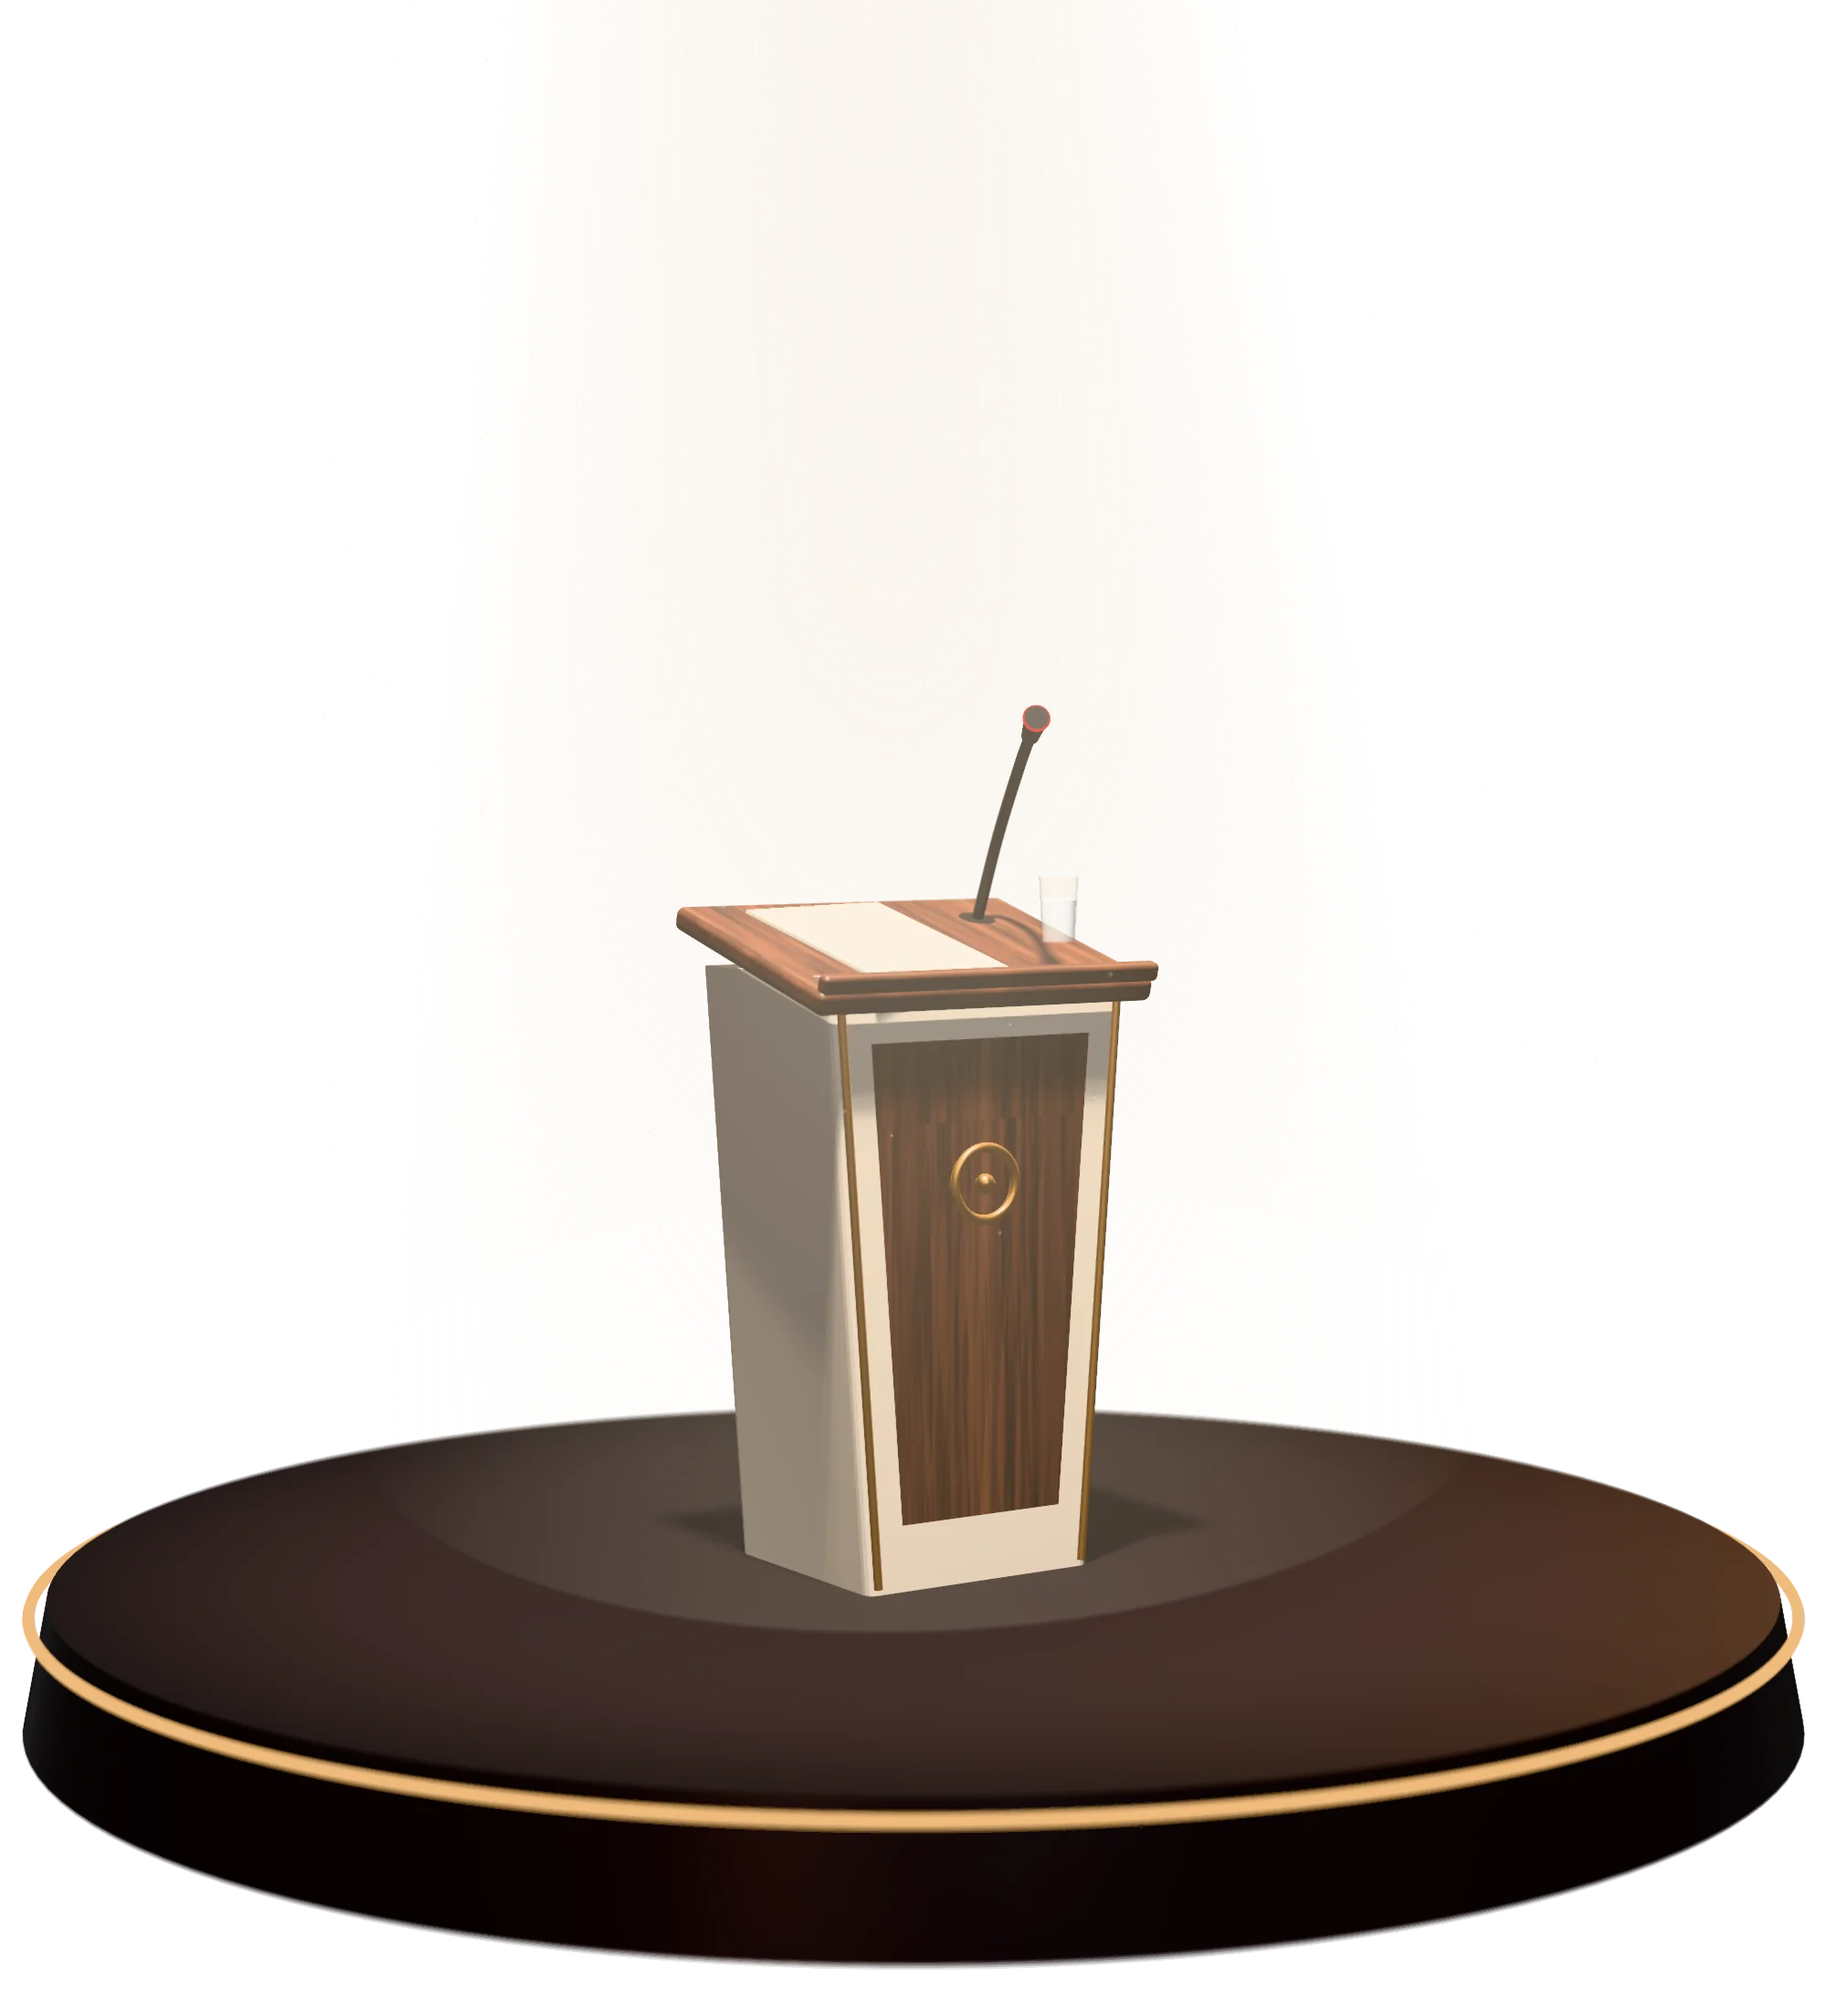
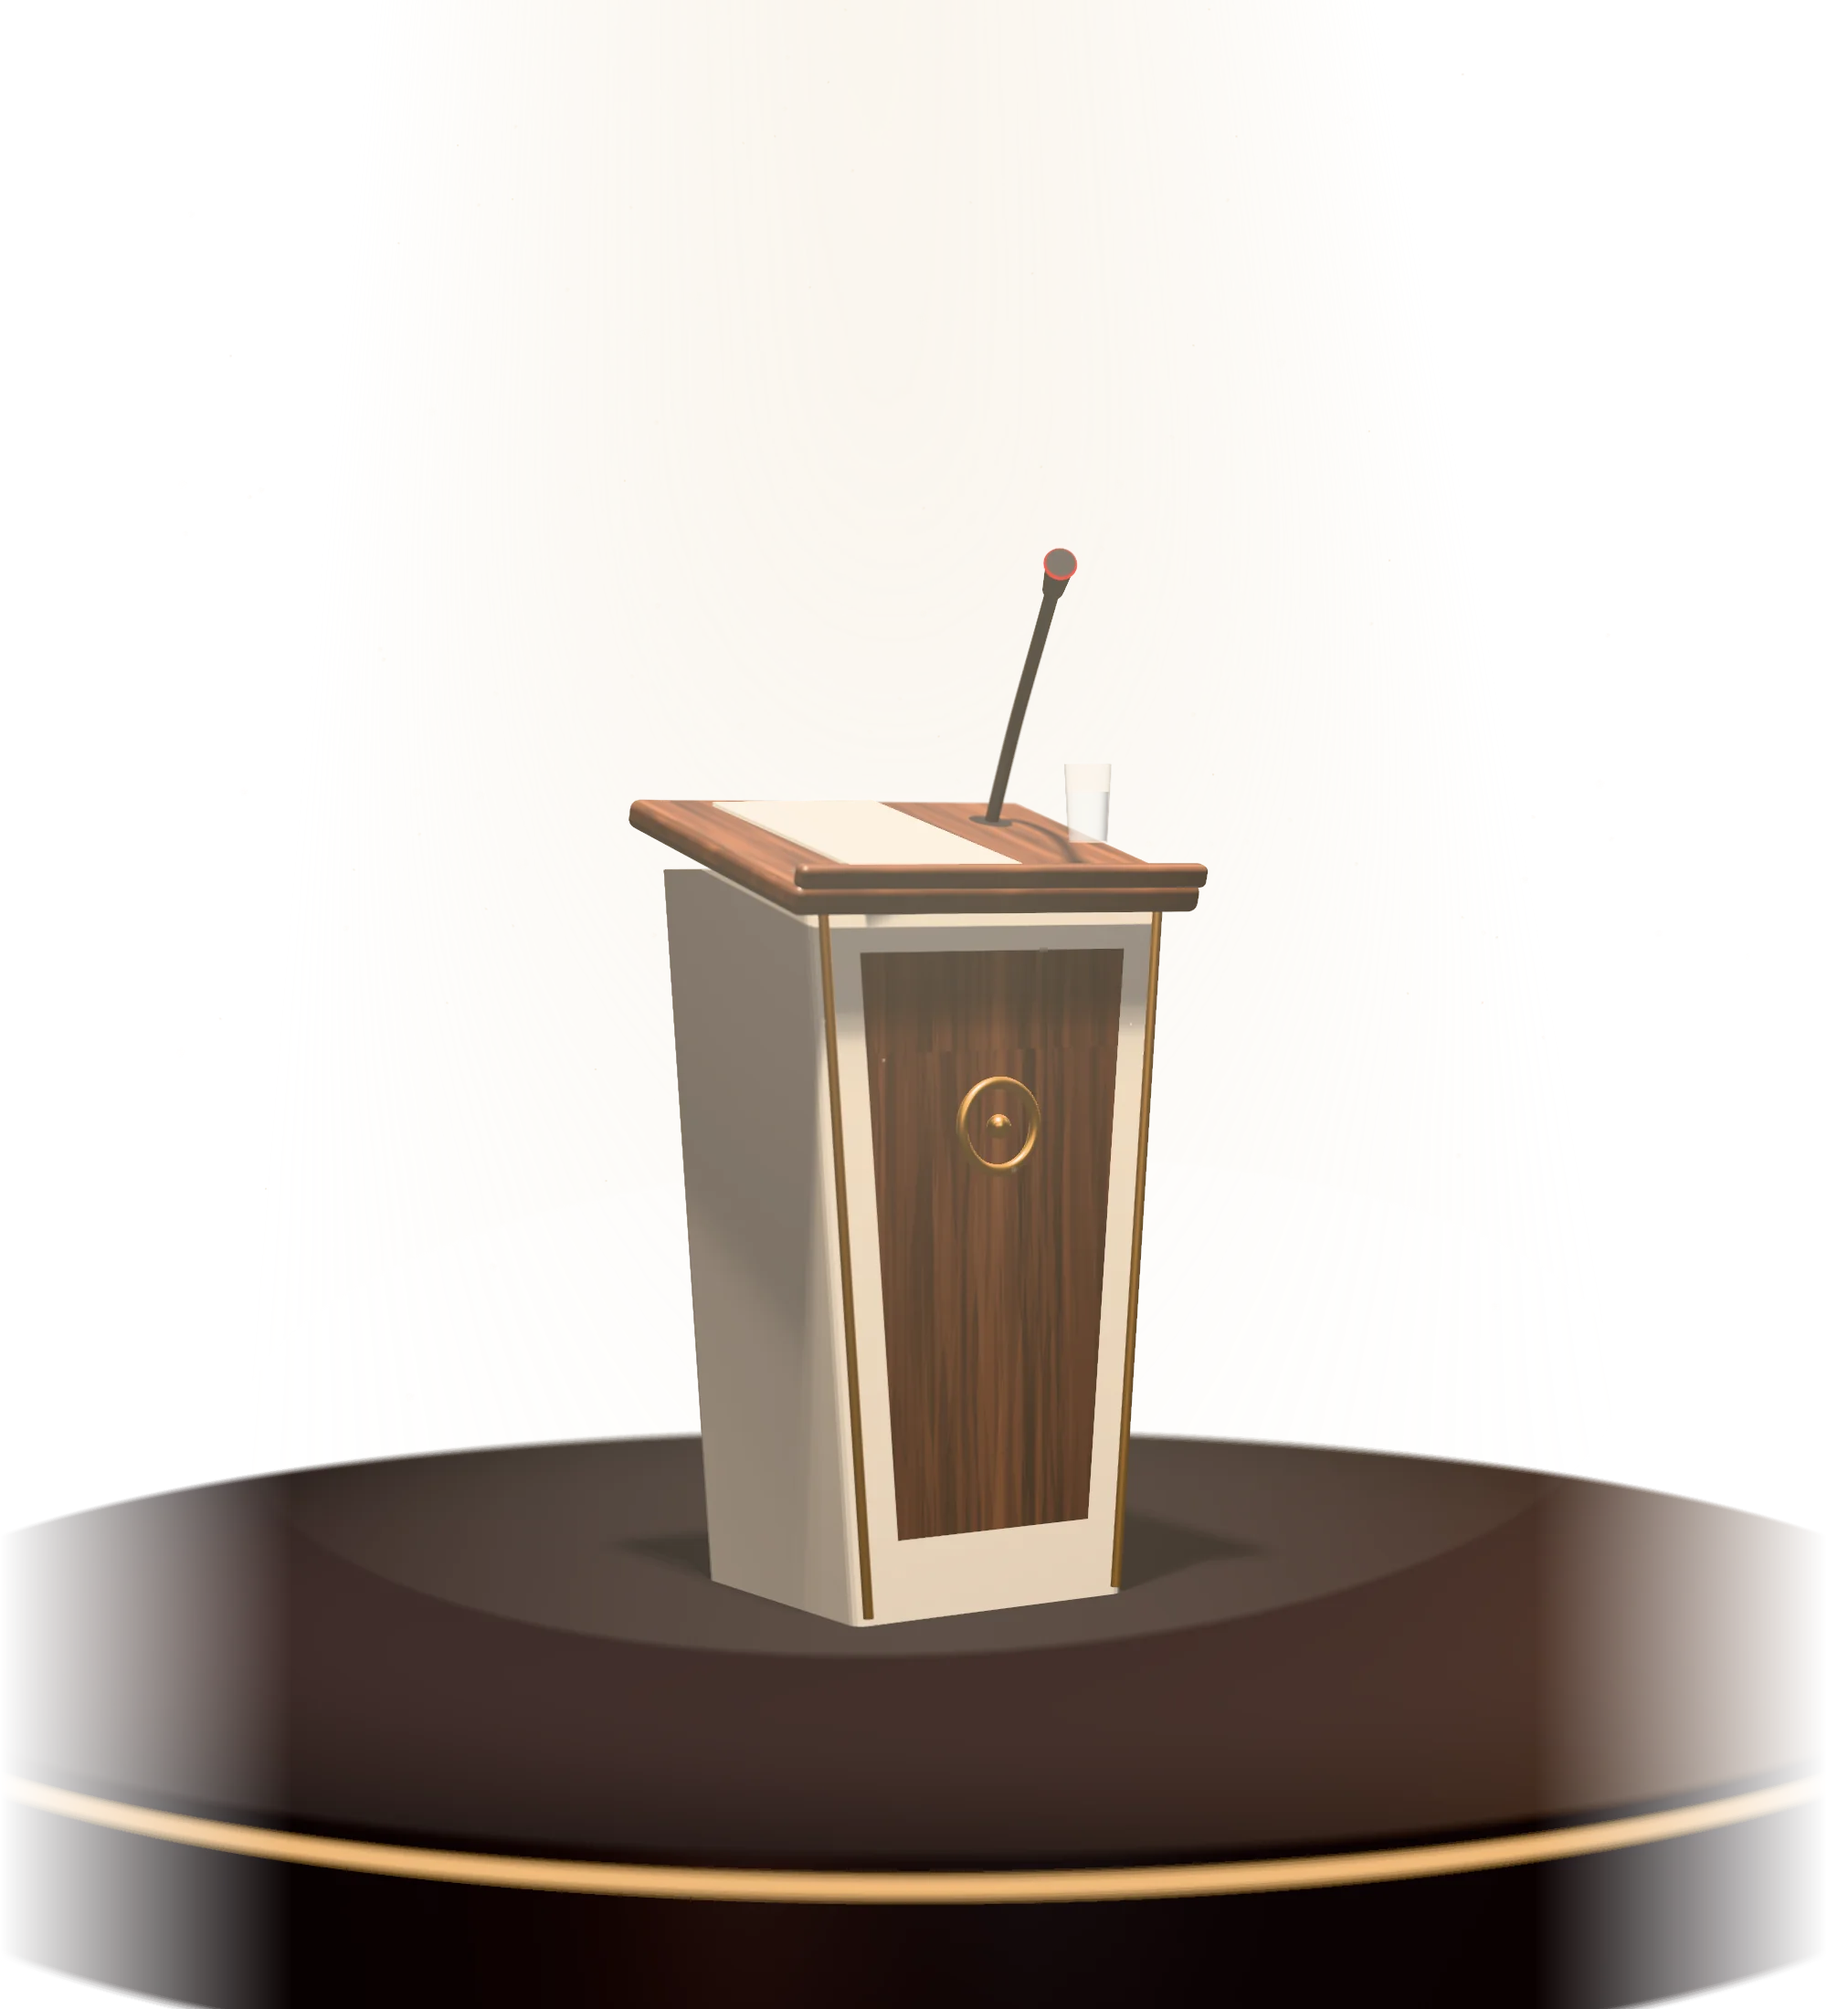
wip(templates): Magen's English timeline captions fit the other templates
Claude-Session: https://claude.ai/code/session_012BaSHeRNgH7D5kU884mrow

Changed region(s): [[0.0, 0.2782, 0.992, 1.0]]

diff --git a/packages/templates/src/authoring/shvav.ts b/packages/templates/src/authoring/shvav.ts
@@ -350,6 +350,23 @@ const tantalum = (cx: number, cy: number) =>
   `<rect x="${cx - 32}" y="${cy - 22}" width="64" height="44" rx="6" fill="${TANTALUM}"/>` +
   `<rect x="${cx - 32}" y="${cy - 22}" width="14" height="44" rx="3" fill="#7a4a12"/>`;
 
+/** A data matrix in silkscreen: the serial number every board carries. */
+function dataMatrix(x: number, y: number, n = 14, m = 8): string {
+  let seed = 41;
+  const rnd = () => ((seed = (seed * 9301 + 49297) % 233280) / 233280);
+  let cells = '';
+  for (let i = 0; i < n; i++) {
+    for (let j = 0; j < n; j++) {
+      const finder = i === 0 || j === n - 1;
+      const timing = (j === 0 && i % 2 === 0) || (i === n - 1 && j % 2 === 1);
+      if (finder || timing || (i > 0 && j > 0 && i < n - 1 && j < n - 1 && rnd() > 0.52)) {
+        cells += `<rect x="${x + i * m}" y="${y + j * m}" width="${m}" height="${m}"/>`;
+      }
+    }
+  }
+  return `<g fill="${INK}" fill-opacity=".72">${cells}</g>`;
+}
+
 // ---------------------------------------------------------------------------------------------
 // What the layouts share
 
@@ -664,7 +681,13 @@ function quoteArt() {
   g += tr([[x1, y0], [x1, y0 - 70], [x1 + 30, y0 - 100]], UNDER) + tented(x1 + 36, y0 - 106, 7);
   // A rule before the speaker: a short trace between two vias.
   g += tr([[SX - 196, 652], [SX - 316, 652]], BARE) + goldVia(SX - 192, 652, 8) + goldVia(SX - 320, 652, 8);
-  const words: Letter[] = [{ x: x1 - 116, y: y0 + 7, t: 'NOTE 1', size: 19, fill: BG, anchor: 'middle', weight: 700 }];
+  // The serial number of the board, in the corner of the block.
+  g += dataMatrix(x0 + 44, y1 - 44 - 112);
+  const words: Letter[] = [
+    { x: x1 - 116, y: y0 + 7, t: 'NOTE 1', size: 19, fill: BG, anchor: 'middle', weight: 700 },
+    { x: x0 + 44 + 112 + 18, y: y1 - 50, t: 'SN 2648-0417', size: 17, op: 0.6 },
+    { x: x0 + 44 + 112 + 18, y: y1 - 74, t: 'PCB-04L · 1.6', size: 17, op: 0.45 },
+  ];
   return art(1920, 1080, g, words);
 }
 
@@ -1193,6 +1216,23 @@ function layouts(): Layout[] {
       ],
       decorations: [
         drawing('d_shvav_text_title_pad', at(START - 54, 158, 22, 22), svg(22, 22, DEFS + testPoint(11, 11, 10)), PAINT),
+        drawing(
+          'd_shvav_text_bus',
+          at(0, 0, 1920, 1080),
+          svg(
+            1920,
+            1080,
+            DEFS +
+              [395, 370, 345, 320]
+                .map((x, k) => {
+                  const y = 920 + k * 16;
+                  const e = 1500 + k * 60;
+                  return tr([[x, 846], [x, y - 20], [x + 20, y], [e, y]], { ...UNDER, w: 5 }) + tented(e + 8, y, 7);
+                })
+                .join(''),
+          ),
+          PAINT,
+        ),
         lettered('d_shvav_text_module', atEnd(0, 0, 700, 1080), pinoutArt()),
         drawing('d_shvav_text_fiducial', atEnd(36, 36, 40, 40), svg(40, 40, DEFS + fiducial(20, 20)), PAINT),
         drawing('d_shvav_text_hole', at(28, 972, 80, 80), svg(80, 80, DEFS + mountHole(40, 40)), PAINT),

diff --git a/packages/templates/src/authoring/magen.ts b/packages/templates/src/authoring/magen.ts
@@ -2133,8 +2133,8 @@ const sampleEn: SampleSlide[] = [
     name: 'The ransomware drill',
     content: {
       caption: [
-        text('Ransomware drill · 9 December 2026'),
-        text('Target: 24 hours to recover. We beat it by almost 20.'),
+        text('Ransomware drill · 9 Dec 2026'),
+        text('Target: 24 hours. We beat it by almost 20.'),
       ],
       title: text('Alert to recovery: 4 h 12 min'),
       number: [text('T+00:00'), text('T+00:04'), text('T+00:38'), text('T+04:12')],
